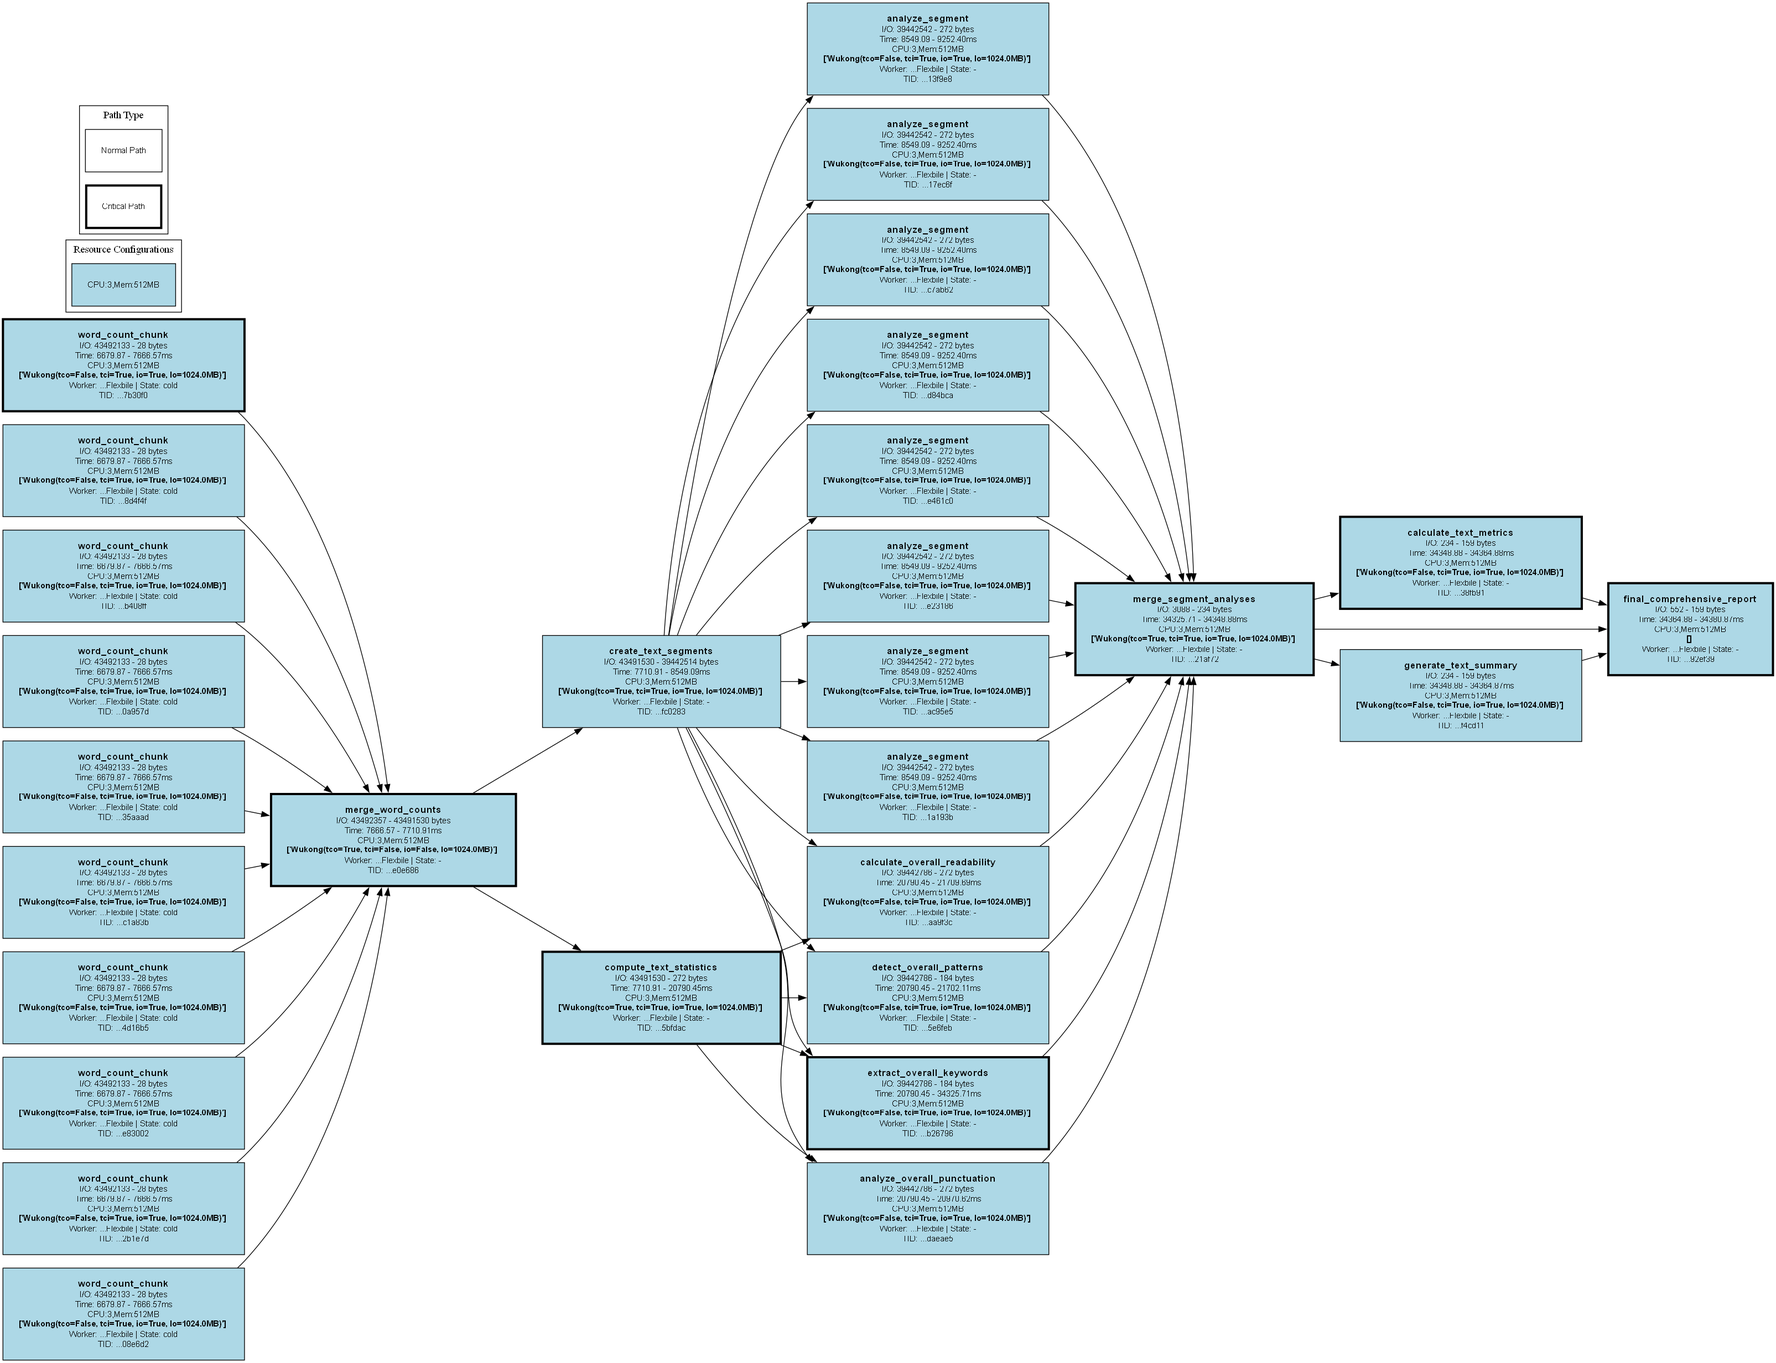
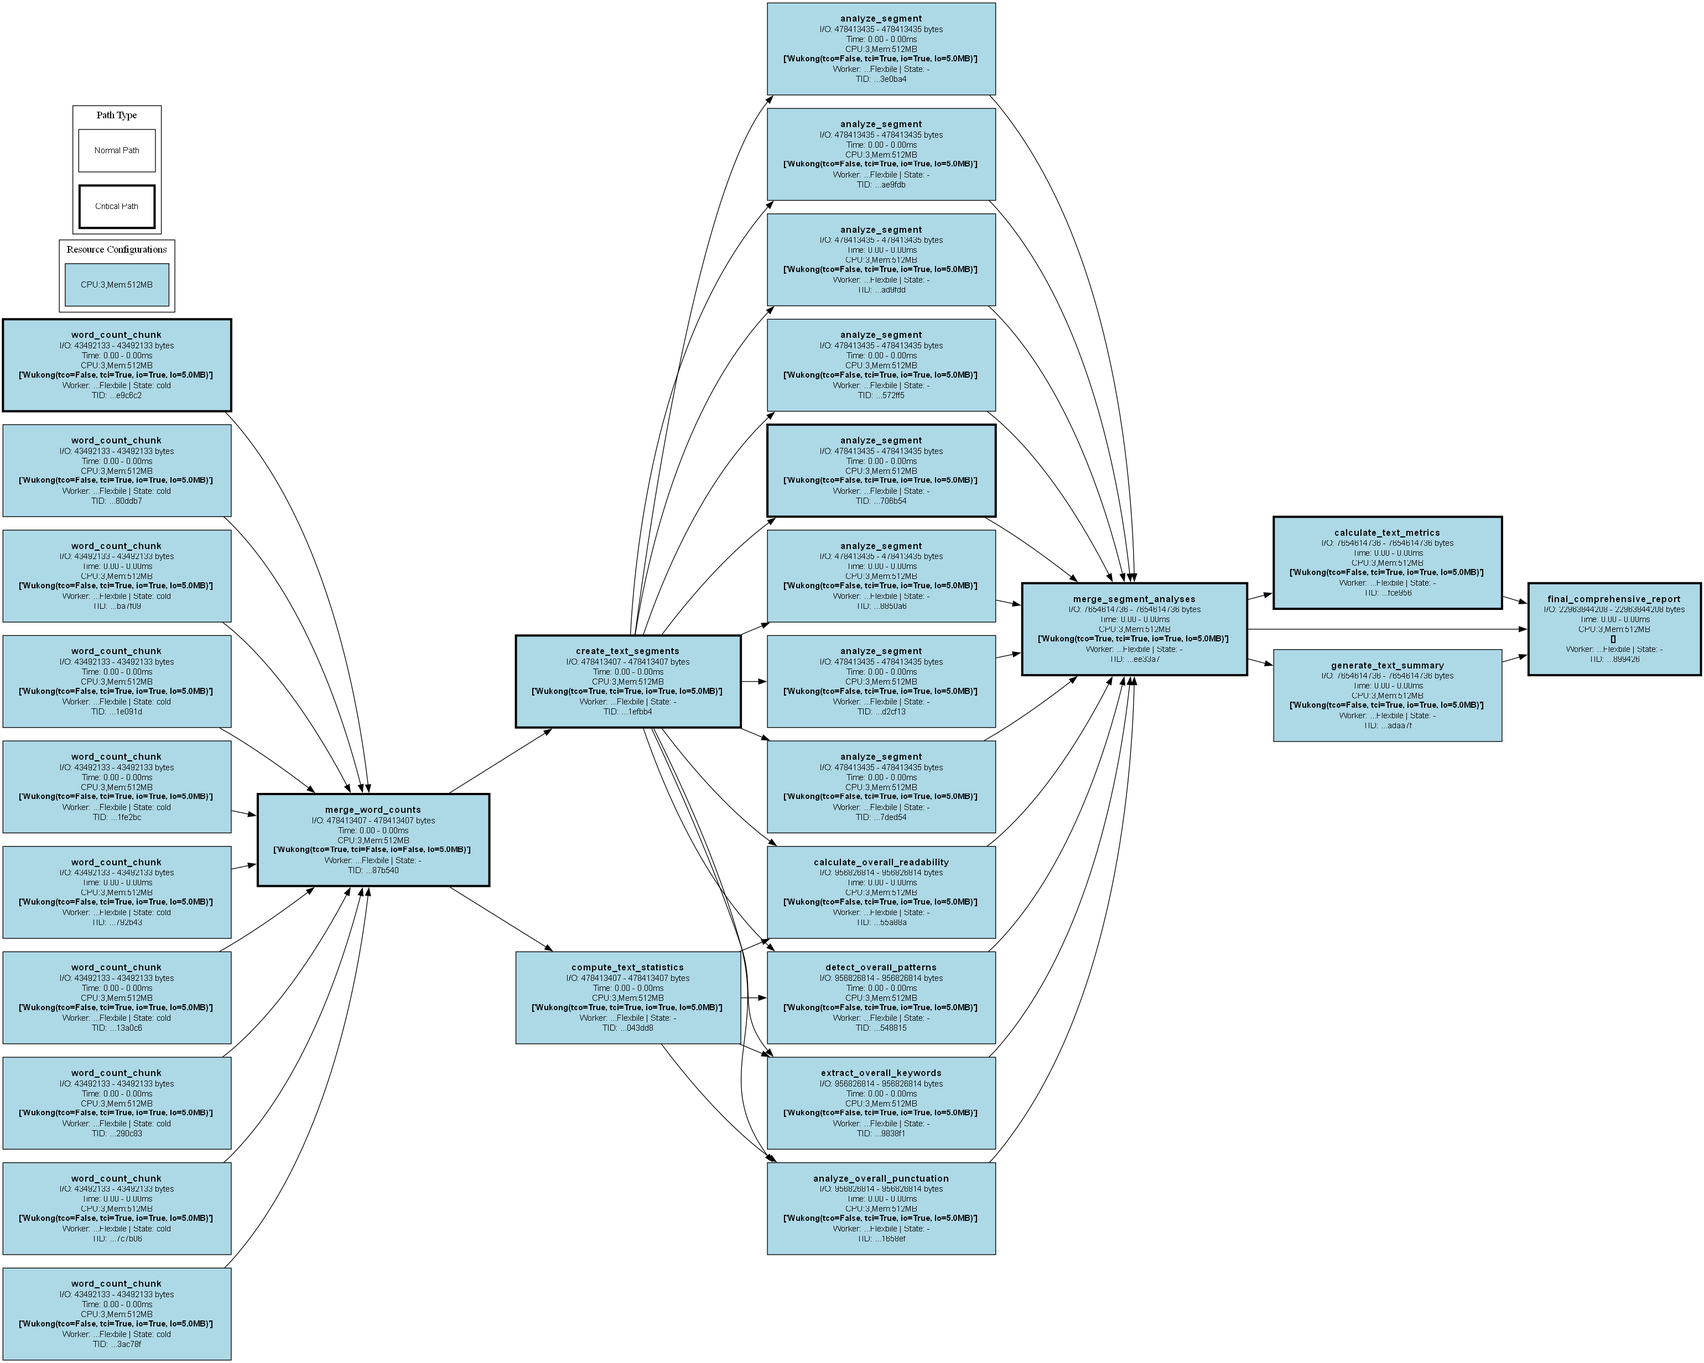
fixes to wukong optimizations

diff --git a/src/planning/optimizations/wukong_optimizations.py b/src/planning/optimizations/wukong_optimizations.py
@@ -67,9 +67,11 @@ class WukongOptimizations(TaskOptimization, WorkerExecutionLogic):
         optimization = current_task.try_get_optimization(WukongOptimizations)
         if optimization is None: return None
         if not optimization.task_clustering_fan_outs and not optimization.delayed_io and not optimization.task_clustering_fan_ins: return None
+        assert current_task.cached_result
 
-        task_output_size_b = calculate_data_structure_size_bytes(cloudpickle.dumps(current_task.cached_result))
+        task_output_size_b = calculate_data_structure_size_bytes(cloudpickle.dumps(current_task.cached_result.result))
         is_task_size_large = task_output_size_b > optimization.large_output_b
+        logger.info(f"[WUKONG_DBG] W({this_worker.my_worker_id}) Task {current_task.id.get_full_id()} is large?: {is_task_size_large} | size: {task_output_size_b / 1024 / 1024}MB")
         return not is_task_size_large # only upload if not large
 
     @staticmethod
@@ -78,10 +80,12 @@ class WukongOptimizations(TaskOptimization, WorkerExecutionLogic):
         _this_worker: Worker = this_worker
 
         optimization = current_task.try_get_optimization(WukongOptimizations)
+        logger.info(f"[WUKONG_DBG] W({this_worker.my_worker_id}) Task {current_task.id.get_full_id()} | has optimization?: {optimization is not None} | has dtasks ready: {len(downstream_tasks_ready)}")
         if optimization is None: return None
         if not downstream_tasks_ready: return []
         if not optimization.task_clustering_fan_outs and not optimization.delayed_io and not optimization.task_clustering_fan_ins: return None
-        task_output_size_b = calculate_data_structure_size_bytes(cloudpickle.dumps(current_task.cached_result))
+        assert current_task.cached_result
+        task_output_size_b = calculate_data_structure_size_bytes(cloudpickle.dumps(current_task.cached_result.result))
         is_task_size_large = task_output_size_b > optimization.large_output_b
 
         is_fan_in_upstream = len(current_task.downstream_nodes) > 0 and any([dnode for dnode in current_task.downstream_nodes if len(dnode.upstream_nodes) > 1])
@@ -91,7 +95,7 @@ class WukongOptimizations(TaskOptimization, WorkerExecutionLogic):
         if is_task_size_large:
             if is_fan_in_upstream:
                 # upload large output
-                serialized_task_result = cloudpickle.dumps(current_task.cached_result)
+                serialized_task_result = cloudpickle.dumps(current_task.cached_result.result)
                 output_upload_timer = Timer()
                 await _this_worker.intermediate_storage.set(current_task.id.get_full_id_in_dag(subdag), serialized_task_result)
                 current_task.metrics.output_metrics.tp_time_ms = output_upload_timer.stop()
@@ -102,19 +106,21 @@ class WukongOptimizations(TaskOptimization, WorkerExecutionLogic):
                     if any([dnode.id.get_full_id() == dtask.id.get_full_id() for dnode in downstream_tasks_ready]):
                         # ignore if task was already READY
                         continue
-                    if len(dtask.upstream_nodes) > 1 and _this_worker.metadata_storage.get(f"{DEPENDENCY_COUNTER_PREFIX}{dtask.id.get_full_id_in_dag(subdag)}") == len(dtask.upstream_nodes):
-                        assert _this_worker.my_resource_configuration.worker_id
-                        asyncio.create_task(_this_worker.execute_branch(subdag.create_subdag(dtask), fulldag, my_worker_id=_this_worker.my_resource_configuration.worker_id))
+                    if len(dtask.upstream_nodes) > 1 and await _this_worker.metadata_storage.get(f"{DEPENDENCY_COUNTER_PREFIX}{dtask.id.get_full_id_in_dag(subdag)}") == len(dtask.upstream_nodes):
+                        assert _this_worker.my_worker_id
+                        asyncio.create_task(_this_worker.execute_branch(subdag.create_subdag(dtask), fulldag, my_worker_id=_this_worker.my_worker_id))
                         await dtask.completed_event.wait()
                         tasks_completed.add(dtask.id.get_full_id())
             
             # TASK-CLUSTERING ON FAN-OUTS + DELAYED I/O
             if is_fan_out_origin and (optimization.delayed_io or optimization.task_clustering_fan_outs):
+                logger.info(f"[WUKONG_DBG] W({this_worker.my_worker_id}) Task {current_task.id.get_full_id()} is a fan-out origin. dio={optimization.delayed_io}, tco={optimization.task_clustering_fan_outs} | downstream_tasks_ready_count={len(downstream_tasks_ready)}")
                 mutable_downstream_tasks_ready = downstream_tasks_ready.copy()
                 while mutable_downstream_tasks_ready:
                     dtask_ready = mutable_downstream_tasks_ready.pop() # remove task
-                    assert _this_worker.my_resource_configuration.worker_id
-                    asyncio.create_task(_this_worker.execute_branch(subdag.create_subdag(dtask_ready), fulldag, my_worker_id=_this_worker.my_resource_configuration.worker_id))
+                    assert _this_worker.my_worker_id
+                    logger.info(f"[WUKONG_DBG] W({this_worker.my_worker_id}) Executing task {dtask_ready.id.get_full_id()}...")
+                    asyncio.create_task(_this_worker.execute_branch(subdag.create_subdag(dtask_ready), fulldag, my_worker_id=_this_worker.my_worker_id))
                     await dtask_ready.completed_event.wait()
                     tasks_completed.add(dtask_ready.id.get_full_id())
 
@@ -128,13 +134,14 @@ class WukongOptimizations(TaskOptimization, WorkerExecutionLogic):
                         task_in_completed_list = _dtask.id.get_full_id() not in tasks_completed
                         task_in_ready_list = any([_dtask.id.get_full_id() == dtready.id.get_full_id() for dtready in downstream_tasks_ready])
                         # Check if a task that wasn't ready nor completed became ready while executing this task
-                        if not task_in_completed_list and not task_in_ready_list and _this_worker.metrics_storage and _this_worker.metrics_storage.get(f"{DEPENDENCY_COUNTER_PREFIX}{_dtask.id.get_full_id_in_dag(subdag)}") == len(_dtask.upstream_nodes):
+                        if not task_in_completed_list and not task_in_ready_list and _this_worker.metrics_storage and await _this_worker.metrics_storage.get(f"{DEPENDENCY_COUNTER_PREFIX}{_dtask.id.get_full_id_in_dag(subdag)}") == len(_dtask.upstream_nodes):
+                            logger.info(f"[WUKONG_DBG] W({this_worker.my_worker_id}) Delayed IO | Task {_dtask.id.get_full_id()} became ready while executing other task ({current_task.id.get_full_id()})")
                             mutable_downstream_tasks_ready.append(_dtask)
                             break # found 1 ready task that's enough for now, execute it
             
                 # {not is_fan_in_upstream} because if it is, we already uploaded the output
                 if not is_fan_in_upstream and len(tasks_completed) != len(current_task.downstream_nodes):
-                    serialized_task_result = cloudpickle.dumps(current_task.cached_result)
+                    serialized_task_result = cloudpickle.dumps(current_task.cached_result.result)
                     output_upload_timer = Timer()
                     await _this_worker.intermediate_storage.set(current_task.id.get_full_id_in_dag(subdag), serialized_task_result)
                     current_task.metrics.output_metrics.tp_time_ms = output_upload_timer.stop()
@@ -149,7 +156,7 @@ class WukongOptimizations(TaskOptimization, WorkerExecutionLogic):
                 task_for_me_to_execute = dtask_ready
             else:
                 # 1 worker for each of the N READY task
-                asyncio.create_task(_this_worker.delegate([subdag.create_subdag(dtask_ready)], fulldag, called_by_worker=True))
+                await _this_worker.delegate([subdag.create_subdag(dtask_ready)], fulldag, called_by_worker=True)
         
         if not task_for_me_to_execute: return []
         else: return [task_for_me_to_execute]

diff --git a/src/workers/worker.py b/src/workers/worker.py
@@ -59,6 +59,7 @@ class Worker(ABC):
         # To help understand locality decisions afterwards, at the dashboard
         _my_resource_configuration_with_flexible_worker_id = self.my_resource_configuration.clone()
         _my_resource_configuration_with_flexible_worker_id.worker_id = my_worker_id
+        self.my_worker_id = my_worker_id
         
         tasks_executed_by_this_coroutine: list[dag_task_node.DAGTaskNode] = []
         other_coroutines_i_launched = []
@@ -184,18 +185,18 @@ class Worker(ABC):
                 updating_dependency_counters_timer = Timer()
                 downstream_tasks_ready: list[dag_task_node.DAGTaskNode] = []
                 async with self.metadata_storage.batch() as batch:
-                    downstream_tasks_that_depend_on_other_tasks = [dt for dt in current_task.downstream_nodes if not (len(dt.upstream_nodes) == 1 and dt.upstream_nodes[0].worker_config.worker_id is not None and dt.upstream_nodes[0].worker_config.worker_id == self.my_resource_configuration.worker_id)]
+                    # downstream_tasks_that_depend_on_other_tasks = [dt for dt in current_task.downstream_nodes if not (len(dt.upstream_nodes) == 1 and dt.upstream_nodes[0].worker_config.worker_id is not None and dt.upstream_nodes[0].worker_config.worker_id == self.my_resource_configuration.worker_id)]
                     for downstream_task in current_task.downstream_nodes:
-                        if downstream_task in downstream_tasks_that_depend_on_other_tasks:
-                            await batch.atomic_increment_and_get(f"{DEPENDENCY_COUNTER_PREFIX}{downstream_task.id.get_full_id_in_dag(subdag)}")
-                        else:
-                            downstream_tasks_ready.append(downstream_task)
+                        # if downstream_task in current_task.downstream_nodes:
+                        await batch.atomic_increment_and_get(f"{DEPENDENCY_COUNTER_PREFIX}{downstream_task.id.get_full_id_in_dag(subdag)}")
+                        # else:
+                            # downstream_tasks_ready.append(downstream_task)
 
                     results = await batch.execute()
                     
                 current_task.metrics.update_dependency_counters_time_ms = updating_dependency_counters_timer.stop() if len(current_task.downstream_nodes) > 0 else None
 
-                for downstream_task, dependencies_met in zip(downstream_tasks_that_depend_on_other_tasks, results):
+                for downstream_task, dependencies_met in zip(current_task.downstream_nodes, results):
                     downstream_task_total_dependencies = len(subdag.get_node_by_id(downstream_task.id).upstream_nodes)
                     self.log(current_task.id.get_full_id(), f"Incremented DC of {downstream_task.id.get_full_id()} ({dependencies_met}/{downstream_task_total_dependencies})")
                     if dependencies_met == downstream_task_total_dependencies:
@@ -314,4 +315,4 @@ class Worker(ABC):
 
     def log(self, task_id: str, message: str):
         """Log a message with worker ID prefix."""
-        logger.info(f"W({self.my_resource_configuration.worker_id}) T({task_id}) | {message}")
+        logger.info(f"W({self.my_worker_id}) T({task_id}) | {message}")

diff --git a/src/planning/optimizations/taskdup.py b/src/planning/optimizations/taskdup.py
@@ -60,7 +60,7 @@ class TaskDupOptimization(TaskOptimization, WorkerExecutionLogic):
     @staticmethod
     async def wel_before_task_handling(planner, this_worker, metadata_storage: Storage, subdag: SubDAG, current_task: DAGTaskNode, is_dupping: bool):
         is_duppable = current_task.try_get_optimization(TaskDupOptimization) is not None
-        if not is_dupping and is_duppable: await TaskDupOptimization._check_cancellation_flag(this_worker, metadata_storage, subdag, current_task)
+        # if not is_dupping and is_duppable: await TaskDupOptimization._check_cancellation_flag(this_worker, metadata_storage, subdag, current_task)
         if is_duppable: await metadata_storage.set(f"{DUPPABLE_TASK_STARTED_PREFIX}{current_task.id.get_full_id_in_dag(subdag)}", time.time())
 
     @staticmethod
@@ -69,18 +69,18 @@ class TaskDupOptimization(TaskOptimization, WorkerExecutionLogic):
         # set the cancellation flag to notify other workers to not execute this task. if all inputs are available, then we can dup the task. Warn others that they MAY NOT need to execute it
         if is_dupping: await metadata_storage.set(f"{DUPPABLE_TASK_CANCELLATION_PREFIX}{current_task.id.get_full_id_in_dag(subdag)}", 1)
 
-        if not is_dupping and is_duppable: await TaskDupOptimization._check_cancellation_flag(this_worker, metadata_storage, subdag, current_task)
+        # if not is_dupping and is_duppable: await TaskDupOptimization._check_cancellation_flag(this_worker, metadata_storage, subdag, current_task)
 
     @staticmethod
     async def wel_override_should_upload_output(planner, current_task, subdag: SubDAG, this_worker, metadata_storage: Storage, is_dupping: bool) -> bool:
         from src.dag_task_node import DAGTaskNode
         _task: DAGTaskNode = current_task
 
-        if not is_dupping and _task.try_get_optimization(TaskDupOptimization) is not None: await TaskDupOptimization._check_cancellation_flag(this_worker, metadata_storage, subdag, _task)
+        # if not is_dupping and _task.try_get_optimization(TaskDupOptimization) is not None: await TaskDupOptimization._check_cancellation_flag(this_worker, metadata_storage, subdag, _task)
 
-        has_any_duppable_downstream = any(dt.worker_config is None or dt.worker_config.worker_id != this_worker.my_resource_configuration.worker_id for dt in _task.downstream_nodes)
+        has_any_downstream_from_another_worker = any(dt.worker_config.worker_id is None or dt.worker_config.worker_id != this_worker.my_resource_configuration.worker_id for dt in _task.downstream_nodes)
 
-        return has_any_duppable_downstream or subdag.sink_node.id.get_full_id() == _task.id.get_full_id() or (this_worker is None or any(dt.worker_config.worker_id is None or dt.worker_config.worker_id != this_worker.my_resource_configuration.worker_id for dt in _task.downstream_nodes))
+        return has_any_downstream_from_another_worker or subdag.sink_node.id.get_full_id() == _task.id.get_full_id() or this_worker is None
 
     @staticmethod
     async def wel_override_handle_downstream(planner, fulldag, current_task, this_worker, downstream_tasks_ready, subdag: SubDAG, is_dupping: bool):

diff --git a/_examples/original/text_analysis.py b/_examples/original/text_analysis.py
@@ -179,7 +179,6 @@ def analyze_overall_punctuation(segments: List[str], text_stats: Dict[str, Any])
 def calculate_overall_readability(segments: List[str], text_stats: Dict[str, Any]) -> Dict[str, Any]:
     """Calculate readability metrics for the entire text, enhanced with statistics"""
     all_text = " ".join(segments)
-    words = all_text.split()
     
     # Use pre-computed statistics for enhanced readability
     enhanced_score = text_stats["simple_readability_score"] + (text_stats["avg_sentence_length"] * 0.1)
@@ -341,7 +340,7 @@ final_report = final_comprehensive_report(metrics, summary, merged_analysis)
 
 # --- Run workflow ---
 start_time = time.time()
-result = final_report.compute(dag_name="text_analysis", config=WORKER_CONFIG)
+result = final_report.compute(dag_name="text_analysis", config=WORKER_CONFIG, open_dashboard=False)
 print(f"Result keys: {list(result.keys())} | User waited: {time.time() - start_time:.3f}s")
 print(f"Analysis complete - processed {result['detailed_analysis']['total_words']} words in {result['detailed_analysis']['total_segments']} segments")
 print(f"Found {result['detailed_analysis']['keywords_analysis']['total_keywords']} unique keywords")

diff --git a/src/workers/worker_execution_logic.py b/src/workers/worker_execution_logic.py
@@ -53,7 +53,6 @@ class WorkerExecutionLogic(ABC):
         _this_worker: Worker = this_worker
         my_continuation_tasks: list[DAGTaskNode] = []
         other_continuation_tasks: list[DAGTaskNode] = []
-        coroutines = []
         total_invocation_time_timer = Timer()
         for task in _downstream_tasks_ready:
             task_resource_config = task.worker_config
@@ -84,8 +83,7 @@ class WorkerExecutionLogic(ABC):
 
         if len(other_continuation_tasks) > 0:
             logger.info(f"W({_this_worker.my_resource_configuration.worker_id}) Delegating {len(other_continuation_tasks)} tasks to other workers...")
-            coroutines.append(_this_worker.delegate([subdag.create_subdag(t) for t in other_continuation_tasks], fulldag, called_by_worker=True))
-            await asyncio.gather(*coroutines) # wait for the delegations to be accepted
+            await _this_worker.delegate([subdag.create_subdag(t) for t in other_continuation_tasks], fulldag, called_by_worker=True)
 
         for my_task in my_continuation_tasks:
             logger.info(f"W({_this_worker.my_resource_configuration.worker_id}) I will execute {my_task.id.get_full_id()}...")

diff --git a/_examples/common/config.py b/_examples/common/config.py
@@ -45,7 +45,12 @@ def get_planner_from_sys_argv():
             sla=sla,
             worker_resource_configurations=[TaskWorkerResourceConfiguration(cpus=3, memory_mb=512)],
             optimizations=[
-                WukongOptimizations.configured(task_clustering_fan_outs=True, task_clustering_fan_ins=True, delayed_io=True, large_output_b=1024 * 1024 * 1024)
+                WukongOptimizations.configured(
+                    task_clustering_fan_outs=True, 
+                    task_clustering_fan_ins=True, 
+                    delayed_io=True, 
+                    large_output_b=5 * 1024 * 1024 # 5MB
+                ) 
             ],
         )
     elif planner_type == "simple":

diff --git a/src/planning/abstract_dag_planner.py b/src/planning/abstract_dag_planner.py
@@ -857,6 +857,7 @@ class AbstractDAGPlanner(WorkerExecutionLogic):
         # fallback to default logic
         if res is None:
             res = await WorkerExecutionLogic.wel_override_should_upload_output(planner, current_task, subdag, this_worker, metadata_storage, is_dupping)
+
         return res
 
     @staticmethod
@@ -872,4 +873,5 @@ class AbstractDAGPlanner(WorkerExecutionLogic):
         # fallback to default logic
         if res is None:
             res = await WorkerExecutionLogic.wel_override_handle_downstream(planner, fulldag, current_task, this_worker, downstream_tasks_ready, subdag, is_dupping)
+
         return res

diff --git a/_examples/original/_run_experiments.py b/_examples/original/_run_experiments.py
@@ -12,7 +12,7 @@ WORKFLOWS_PATHS = [
     # 'montage.py',
 ]
 
-ITERATIONS_PER_ALGORITHM = 3
+ITERATIONS_PER_ALGORITHM = 1
 # ALGORITHMS = ['wukong', 'wukong-opt', 'simple', 'uniform', 'non-uniform']
 ALGORITHMS = ['wukong-opt']
 SLAS = ['80']

diff --git a/TODO.md b/TODO.md
@@ -1,7 +1,15 @@
 - Confirm wukong optimizations are being applied
+    - Now getting "killed" error: maybe wukong is executing too many tasks in parallel (N coroutines)
     - Check workflow dashboard to see if workers were reused on fan-outs with BIG OUTPUT
     - Find a way to know where/how many task clusterings and delayed I/Os happened
         possible just from looking at worker ids at the end?
+
+- Convert taskdupping to a local thing (dont upload output, dont update DC)
+    remove cancellation flag
+
+- Try deploying on remote VM
+    - git pull to get venv folder
+        continue following `deployment_notes.md`
 
 - Dashboard
     - [!] Show not only input and output sizes but also ALL the data that travelled the network
